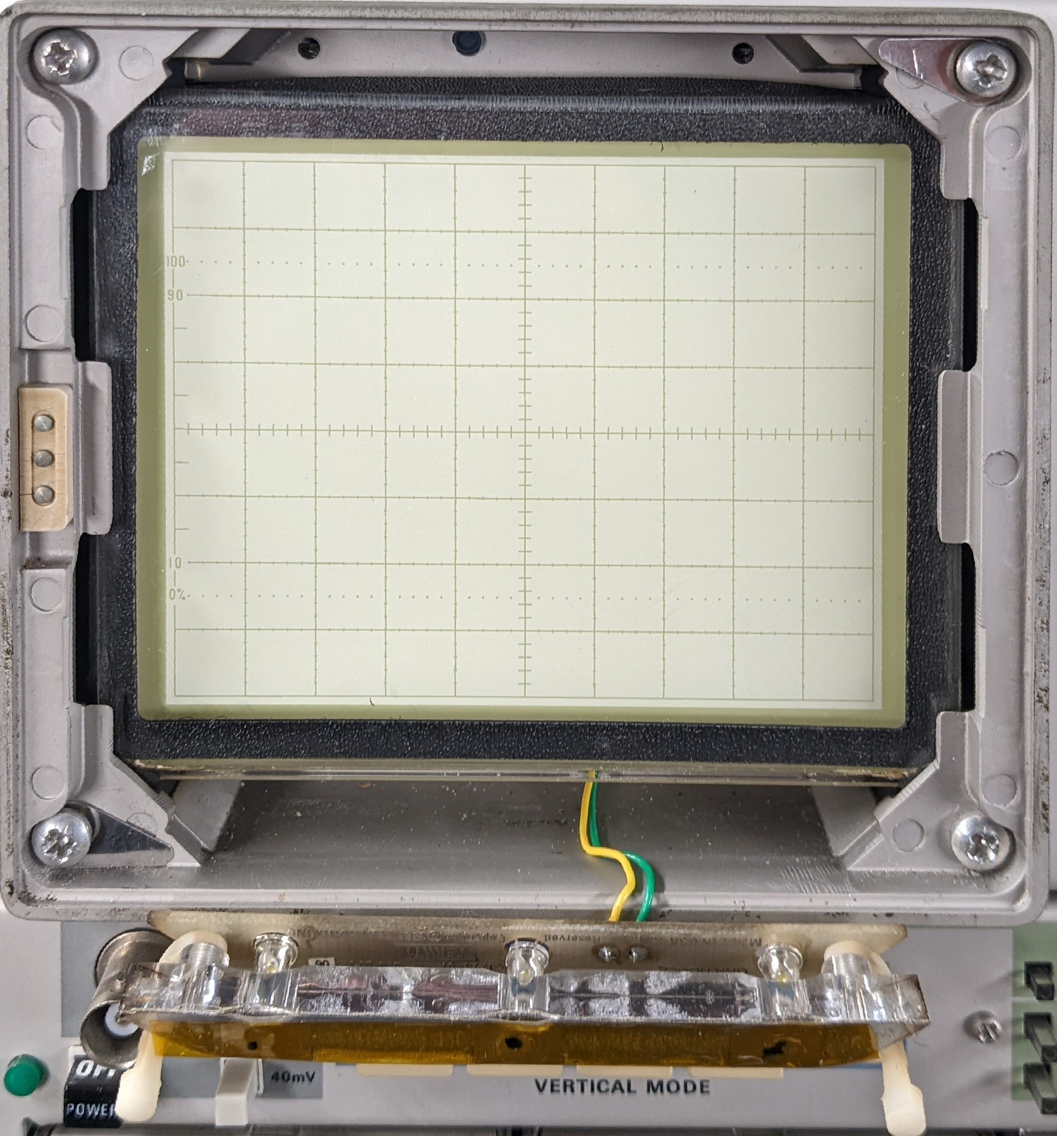
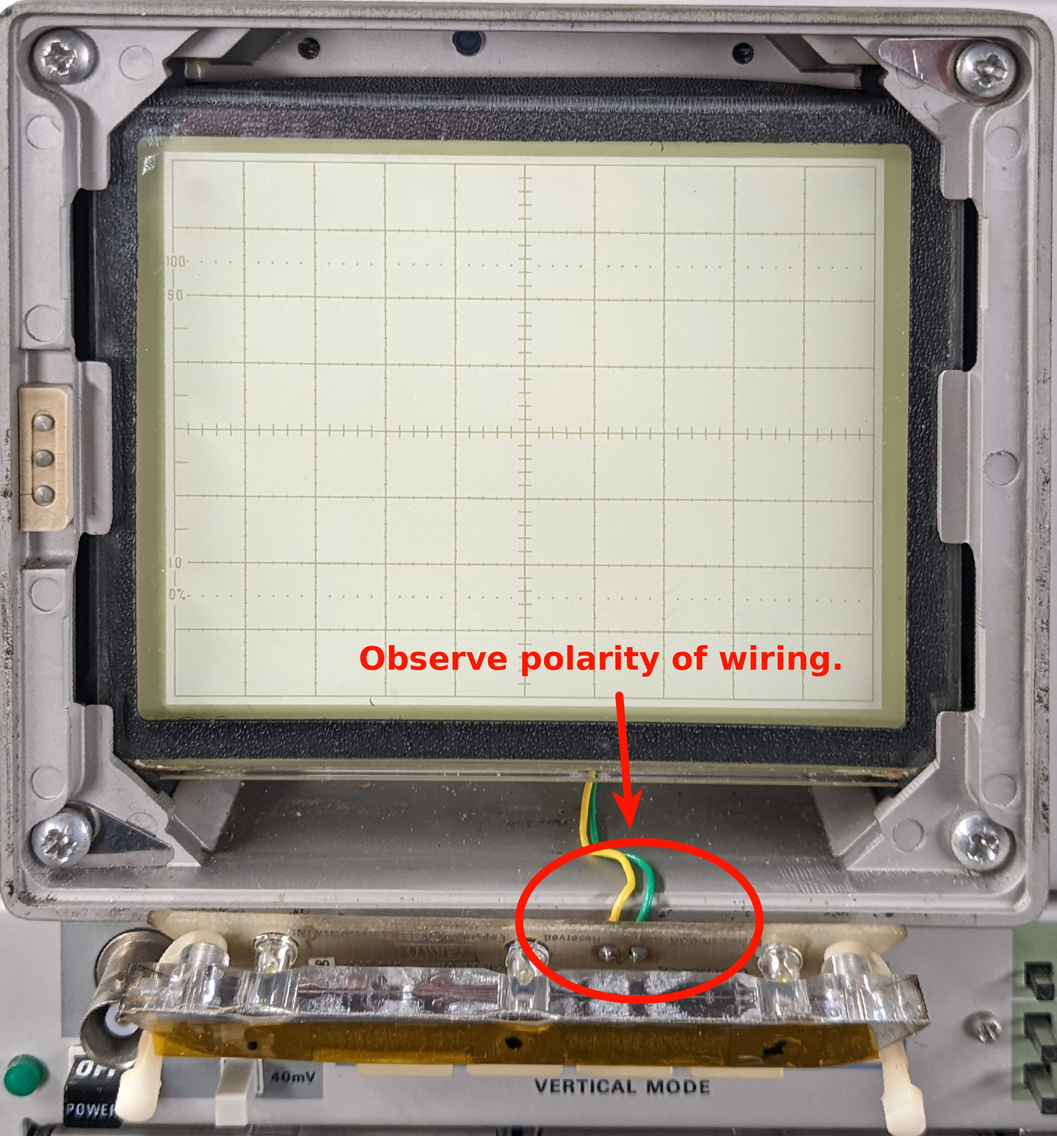
Link to images, swap steps 1.v and 1.vi, annotate PXL_20220108_234137003.jpg

Changed region(s): [[0.3389, 0.5556, 0.8009, 0.8642], [0.5237, 0.8642, 0.6777, 0.8951], [0.6777, 0.8333, 0.7085, 0.8642]]

diff --git a/README.md b/README.md
@@ -34,22 +34,22 @@ You can order multiples of three boards directly from [OSHpark](https://oshpark.
 There are four simple steps required in addition to making the circuit board (all obviously accomplished with the scope off, and fully discharged):
 1. Reworking the graticule light board (A30.)
 First remove the graticule lamp assembly from the scope, this is accomplished as follows:
-    1. Remove the plastic trim around the CRT, by gently pulling it away from the screen (reference photo)
-    2. Loosen the two screws holding the retaining clips for the tinted filter, and rotate the clips out of the way (reference photo)
+    1. [Remove the plastic trim around the CRT](images/PXL_20220108_233952439.jpg), by gently pulling it away from the screen.
+    2. [Loosen the two screws holding the retaining clips](images/PXL_20220108_234001968.jpg) for the tinted filter, and rotate the clips out of the way.
     3. Remove the tinted filter.
-    4. Remove the graticule light assembly by gently pushing the white plastic clips inwards until the assembly can be pulled forward. Be gentle, these clips can be brittle. (reference photos)
-    5. Remove the PCB from the clear plastic light guide. (reference photo)
-    6. Desolder the two wires that go to the PCB, taking note of which wire goes where in the PCB - in my case the green wire went to the trace marked "Ground", and the yellow wire went to the trace marked "+". Tape the wires to avoid them disappearing back inside the body of the scope and complicating the process.
-    7. Desolder lamps.
-    8. Pre-bend the LED leads (reference photo)
-    9. Solder LEDs in place - noting orientation (reference photo)
-    10. Cut PCB traces in three places, to convert from parallel to series wiring (reference photo)
-    11. Add jumper wire as shown to complete series wiring (reference photo)
+    4. [Remove the graticule light assembly](images/PXL_20220108_234047702.jpg) by gently pushing the white plastic clips inwards until [the assembly can be pulled forward](images/PXL_20220108_234137003.jpg). Be gentle, these clips can be brittle.
+    5. Desolder the two wires that go to the PCB, taking note of which wire goes where in the PCB - in my case the green wire went to the trace marked "Ground", and the yellow wire went to the trace marked "+". Tape the wires to avoid them disappearing back inside the body of the scope and complicating the process.
+    6. [Remove the PCB](images/PXL_20210615_022417282.jpg) from the clear plastic light guide.
+    7. [Desolder lamps](images/PXL_20210615_022752127.jpg).
+    8. [Pre-bend the LED leads](images/PXL_20210615_023820695.jpg).
+    9. [Solder LEDs in place](images/PXL_20210615_024128291.jpg) - noting orientation.
+    10. [Cut PCB traces](images/PXL_20210615_024433127.jpg) in three places, to convert from parallel to series wiring.
+    11. [Add jumper wire as shown](images/PXL_20210615_024639665.jpg) to complete series wiring.
     12. Re-solder A30 PCB to wires on scope, observing the correct polarity.
     12. Re-assemble by reversing steps 1 - 5.
-2. Remove R301, the 300 Ohm, 1W resistor on the A1 board. (reference photos) I did not bother desoldering it, and simply removed it by cutting the leads.
+2. Remove [R301](images/R301-Location-1.jpg), the [300 Ohm, 1W resistor](images/R301-Location-2.jpg) on the A1 board. I did not bother desoldering it, and simply removed it by cutting the leads.
 3. Mount the additional PCB. I simply bolted it to the horizontal rail running along the right hand side of the chassis, using one of the existing holes near the rear of the scope.
-4. Remove the ribbon cable that is plugged into P17 on the Low Voltage Regulator board (A22), and attach it to the additional PCB in the location marked "To A1 P1917", paying attention to the orientation of pin 1. This is P1 on the schematic. Connect the location marked "To A22 P17" on the additional PCB (P2 on schematic) via additional ribbon cable to the now unused P17 on A22. (reference photos)
+4. Remove the ribbon cable that is plugged into P17 on the Low Voltage Regulator board (A22), and [attach it to the additional PCB](images/PXL_20210720_014014225.jpg) in the location marked "To A1 P1917", paying attention to the orientation of pin 1. This is P1 on the schematic. Connect the location marked "To A22 P17" on the additional PCB (P2 on schematic) via additional ribbon cable to the now unused P17 on A22.
 I was able to find a 5-way Tek cable that I pulled from some parts mule, and I used that to make the connection between A22 and the additional PCB. Obviously, other solutions are possible, such as cutting the existing ribbon cable and soldering it directly to the additional PCB.
 
 # Licence
